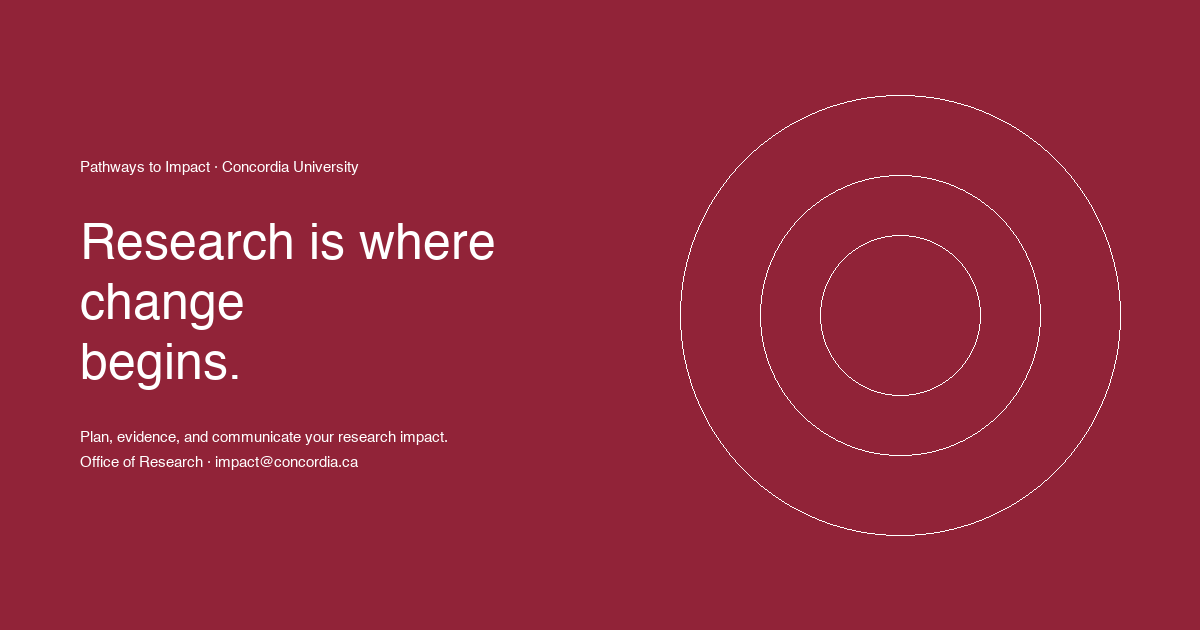
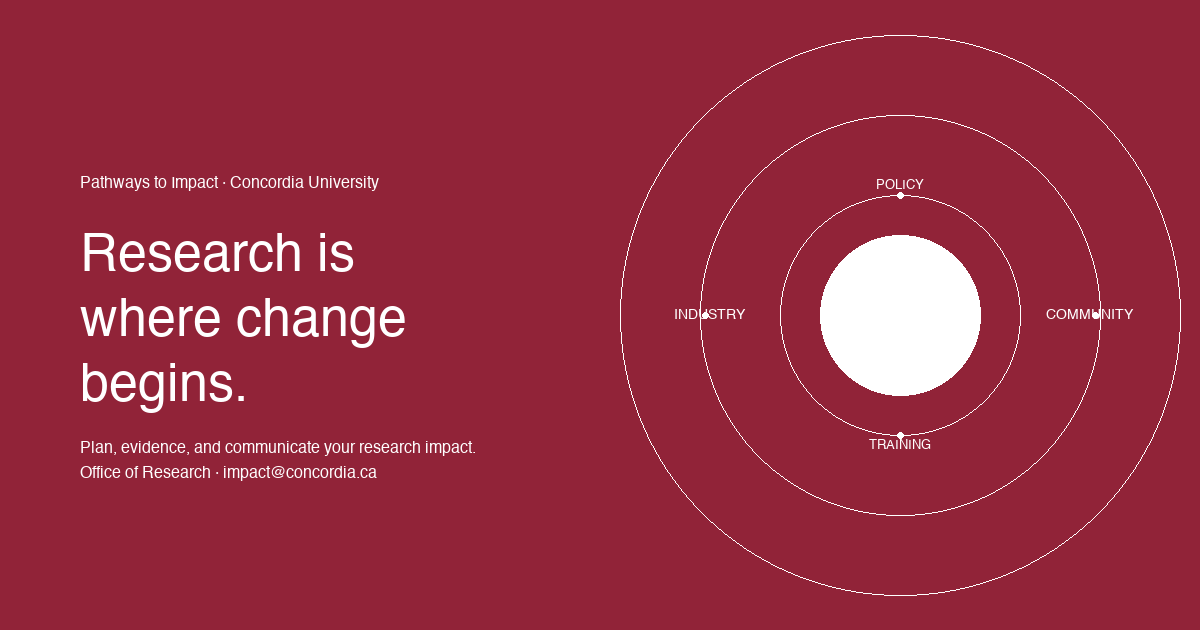
Update headline layout: "where change" on same line, "begins." alone
Adjusts carousel headline, OG share image (SVG + PNG), and adds
nowrap span to keep "where change" together at all viewport sizes.

diff --git a/index.html b/index.html
@@ -24,14 +24,14 @@
     <link rel="preconnect" href="https://fonts.googleapis.com" />
     <link rel="preconnect" href="https://fonts.gstatic.com" crossorigin />
     <link href="https://fonts.googleapis.com/css2?family=Inter:wght@400;500;600;700&display=swap" rel="stylesheet" />
-    <link rel="stylesheet" href="styles.css?v=84" />
+    <link rel="stylesheet" href="styles.css?v=85" />
   </head>
   <body>
     <a href="#app" class="skip-link">Skip to main content</a>
     <header id="site-header"></header>
     <main id="app" aria-live="polite"></main>
     <div id="modal-root"></div>
-    <script src="data.js?v=84"></script>
-    <script src="app.js?v=84"></script>
+    <script src="data.js?v=85"></script>
+    <script src="app.js?v=85"></script>
   </body>
 </html>

diff --git a/app.js b/app.js
@@ -549,7 +549,7 @@
       <div class="slide s1">
         <div class="s1-left">
           <div class="eyebrow">Pathways to Impact &middot; Concordia University</div>
-          <h2 class="s1-headline">Research is where<br/><em>change</em><br/>begins.</h2>
+          <h2 class="s1-headline">Research is<br/><span class="s1-line-nowrap">where <em>change</em></span><br/>begins.</h2>
           <p class="s1-body">This site brings together resources, services, and tools from across Concordia &mdash; curated by the Office of Research to support your research impact journey, wherever you are in it.</p>
         </div>
         <div class="s1-right">

diff --git a/styles.css b/styles.css
@@ -4702,7 +4702,8 @@ label {
 }
 .s1 .eyebrow { color: rgba(255,255,255,0.45); }
 .s1-headline { font-size: 44px; font-weight: 800; line-height: 1.08; color: #fff; margin-bottom: 20px; }
-.s1-headline em { font-style: normal; color: #F4D0D5; }
+.s1-headline em { font-style: italic; color: #F4D0D5; }
+.s1-line-nowrap { white-space: nowrap; }
 .s1-body { font-size: 15px; line-height: 1.78; color: rgba(255,255,255,0.75); max-width: 380px; }
 .s1-right { height: 100%; display: flex; align-items: center; justify-content: center; }
 
